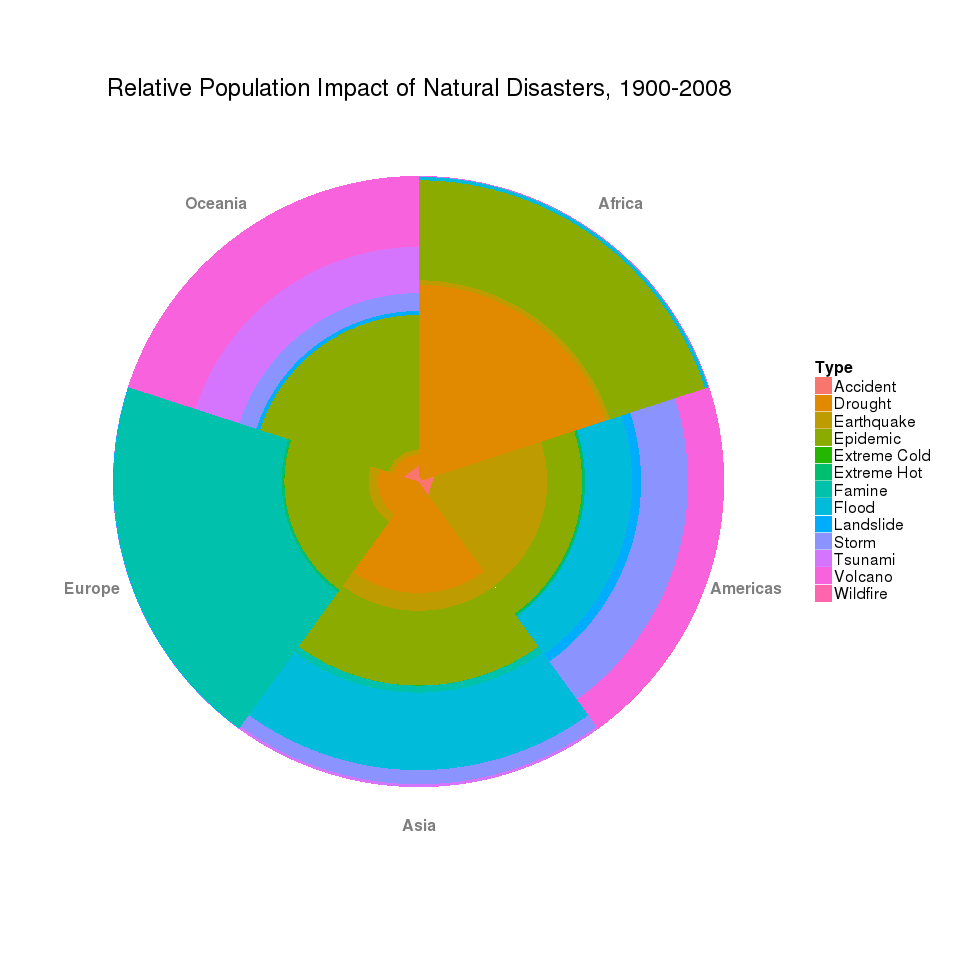
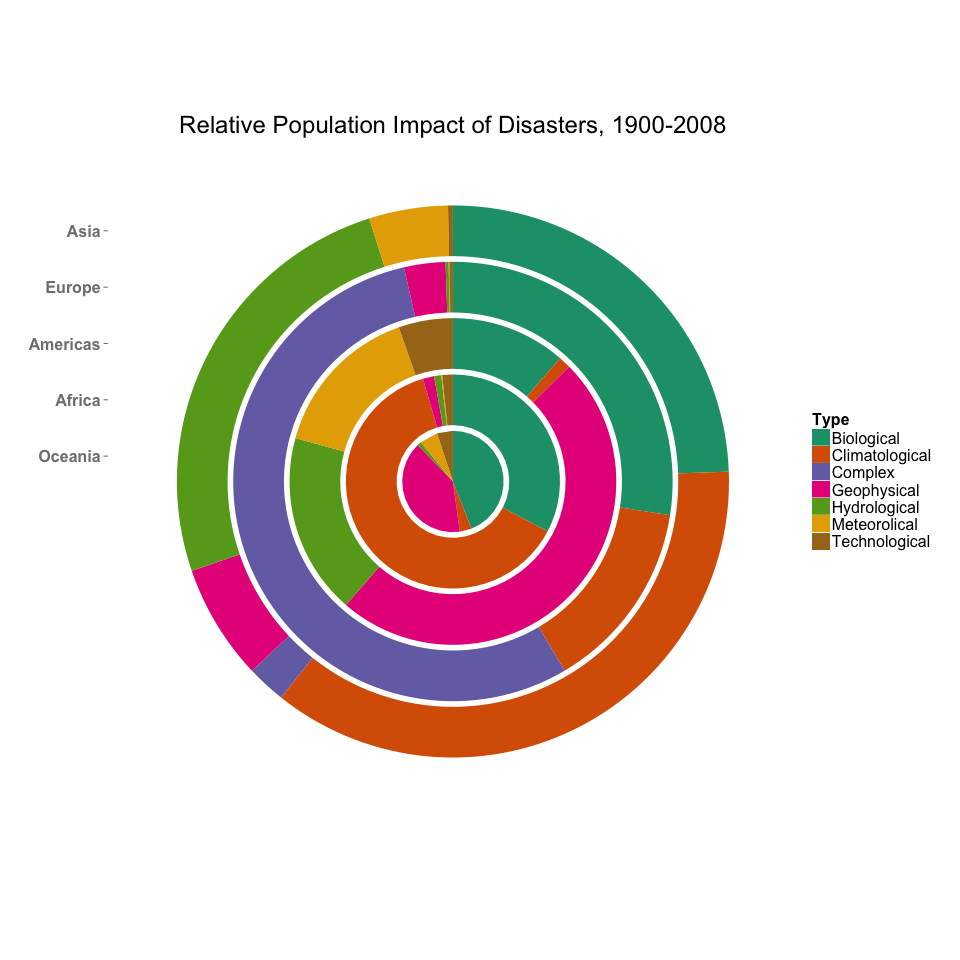
Updated graphic to reflect in-class discussion
New plot and revised rationale.

diff --git a/PS1_Visualization_Design/submission.md b/PS1_Visualization_Design/submission.md
@@ -2,19 +2,19 @@
 
 ![Global Disaster Death Toll By Continent](disaster_impact_by_continent.png)
 
-The graphic represents the contribution of a particular type of disaster category to the total disaster-related death toll for a continent between 1900 and 2008. The slices are all normalized, and thus represent the _relative_ contributions rather than absolute numbers. The data is sourced from [EM-DAT International Disaster Database](http://www.emdat.be/database).
+The graphic represents the contribution of a particular type of disaster category to the total disaster-related death toll for a continent between 1900 and 2008. Each 'race track' corresponds to a continent and the ordering reflect the relative population sizes of the continents- Oceania has the fewest people and Asia has the most. The tracks are all normalized, and thus represent the _relative_ contributions rather than absolute numbers. The data is sourced from [EM-DAT International Disaster Database](http://www.emdat.be/database).
 
 ## Data Cleaning
 
 The type of presentation was heavily influenced by the completeness of the dataset. While every listed disaster had a reported death toll, only a fraction had a reported cost. As such, the presentation focuses on the human costs rather than the economic costs to avoid conjecturing based off the limited available data.
 
-An attempt was made to manually refine the disaster categories, both for aesthetic reasons (long names don't look good in a legend) and for clarity of presentation. E.g. although tsunamis are indeed caused by earthquakes, they are deadly for a different reason and are likely to affect coastal regions more than land-locked areas. Furthermore, extreme temperatures can either be extremely cold or extremely hot, and should be therefore discernible from each other.
+An attempt was made to manually refine the disaster categories, both for aesthetic reasons (long names don't look good in a legend) and for clarity of presentation. Disasters were grouped into seven metatypes: Complex, Biological, Climotological, Geophysical, Hydrological, Meteorological and Technological.
 
 The country-continent assignment was not available in the original dataset, but EM-DAT provides a convenient tool to query the database. I was able to use that tool to download a mapping label that was then joined onto the primary dataset.
 
 ## Design Rationale
 
-One of the primary issues of the provided dataset is the reporting of human casualties in raw numbers rather than percentages of a country/continent's population. Asia comprises ~60% of the world's population, and so while it carries the largest disaster-related death toll, little is known how that metric compares to the overall population of the continent. To that end a decision was made to normalize each slice and report the _relative_ contribution of a particular disaster type. Furthermore, each continent has an equal slice of the pie plot, regardless of its population (more on this below).
+One of the primary issues of the provided dataset is the reporting of human casualties in raw numbers rather than percentages of a country/continent's population. Asia comprises ~60% of the world's population, and so while it carries the largest disaster-related death toll, little is known how that metric compares to the overall population of the continent. To that end a decision was made to normalize each slice and report the _relative_ contribution of a particular disaster type. Furthermore, the continent tracks are ordered in increasing population, partially reflecting their overall contribution to the world population.
 
 Continents were chosen as as the grouping for the plot due to there only being five of them. Ideally I would have preferred to split up Americas into South and North America, but this proved impractical due to the naming standards of the database. Ideally I would have done a merge between the EM-DAT data and some external Country-Region mapping, but apparently there are many ways of naming a country. So for simplicity I opted to use EM-DAT's own continent-country map, which did not split up Americas.
 
@@ -25,5 +25,3 @@ The graphic was created in RStudio using the ggplot2 package. All data cleaning 
 ## Issues
 
 The original intention was to have a Wind Rose plot, where the width of each slice corresponded to the relative population of each continent and the height to the total disaster impact. Under this visualization, a skinny&tall sliver would mean a region bore a disproportionate brunt of disaster deaths, while a narrow&short sliver would indicate a popular but relatively safe region. Unfortunately I simply could not finagle ggplot into displaying the data in such a scheme and was forced to abandon the idea. I am planning on revisiting this project once I learn R a bit better to attempt creating such a plot.
-
-All code to replicate this graphic is available in my [GitHub repository](https://github.com/eyedvabny/berkeley-visualization/tree/master/PS1_Visualization_Design)
